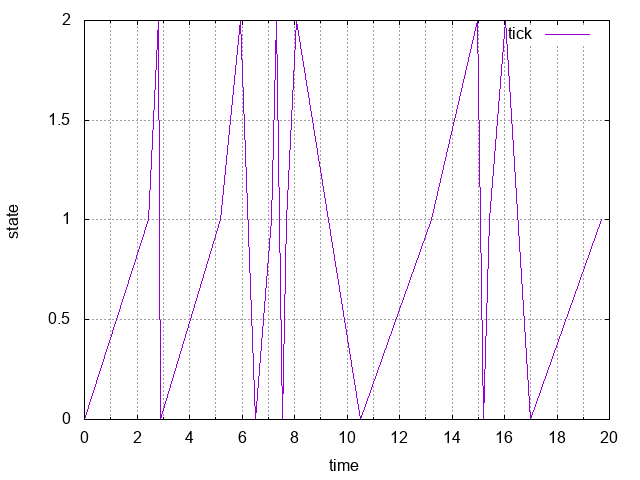
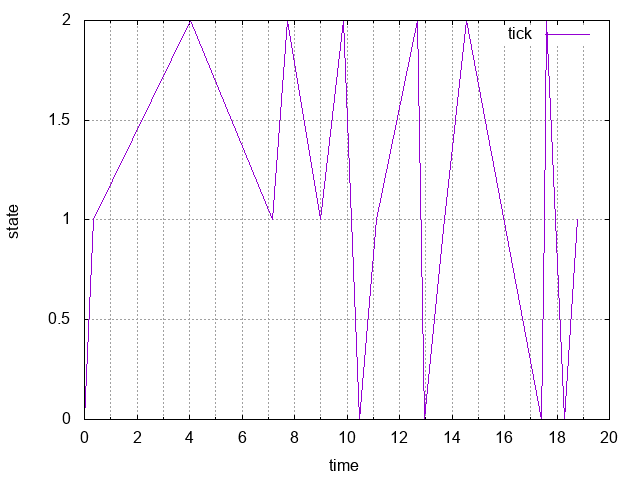
Using consistent values for Markov Chains
Also providing a shorter summary so it doesn't wrap on npmjs.com

diff --git a/examples/DTMC.js b/examples/DTMC.js
@@ -11,7 +11,8 @@ var transMatrixTwo = [
     [0, 1, 0]
 ];
 
-var DTMC = stoch.DTMC([[0,1,0],[0,0,1],[1,0,0]], 20, 0, true);
+// var DTMC = stoch.DTMC([[0,1,0],[0,0,1],[1,0,0]], 20, 0, true);
+var DTMC = stoch.DTMC([[0,1,0],[0,0,1],[.5,.5,0]], 20, 0, true);
 // var DTMC = stoch.DTMC(transMatrixTwo, 20, 0, true);
 
 console.log(DTMC);

diff --git a/examples/CTMC.js b/examples/CTMC.js
@@ -12,7 +12,7 @@ var transMatrixTwo = [
 ];
 
 // var CTMC = stoch.CTMC(transMatrixTwo, 20, 0, true);
-var CTMC = stoch.CTMC([[0,1,0],[0,0,1],[1,0,0]], 20, 0, true);
+var CTMC = stoch.CTMC([[0,1,0],[0,0,1],[.5,.5,0]], 20, 0, true);
 
 plot({
     data:       {tick: CTMC},
